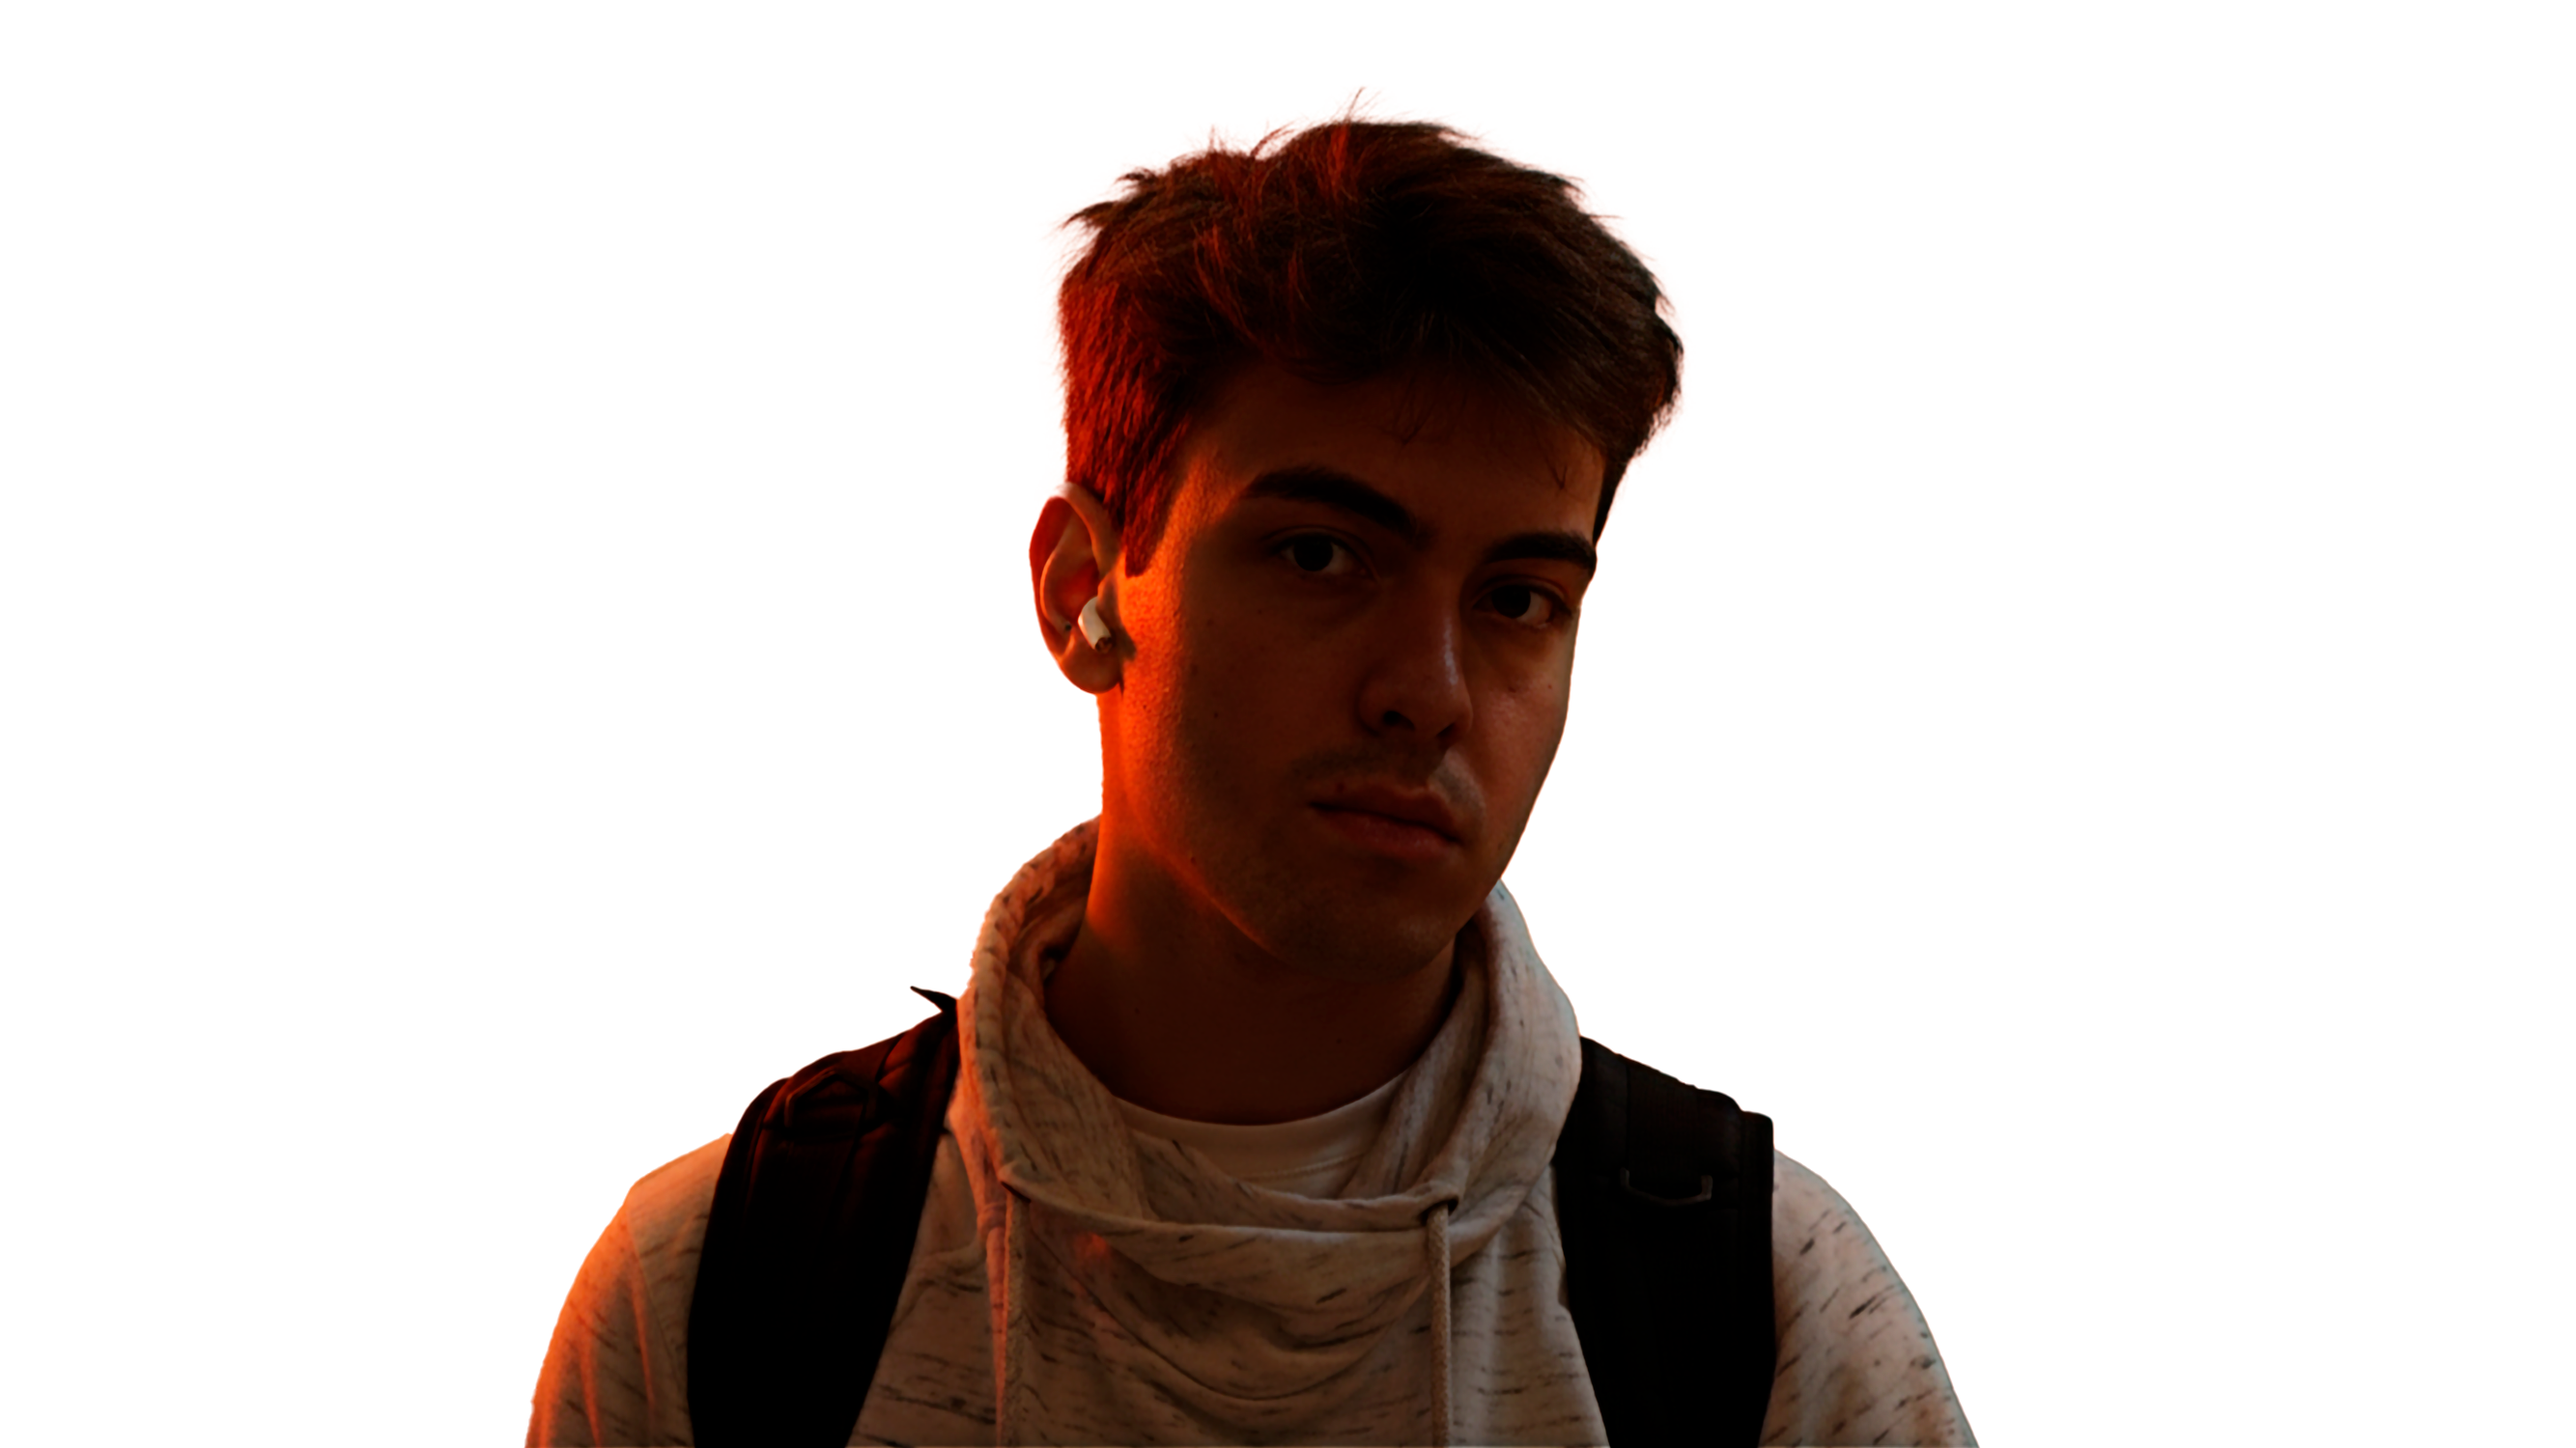
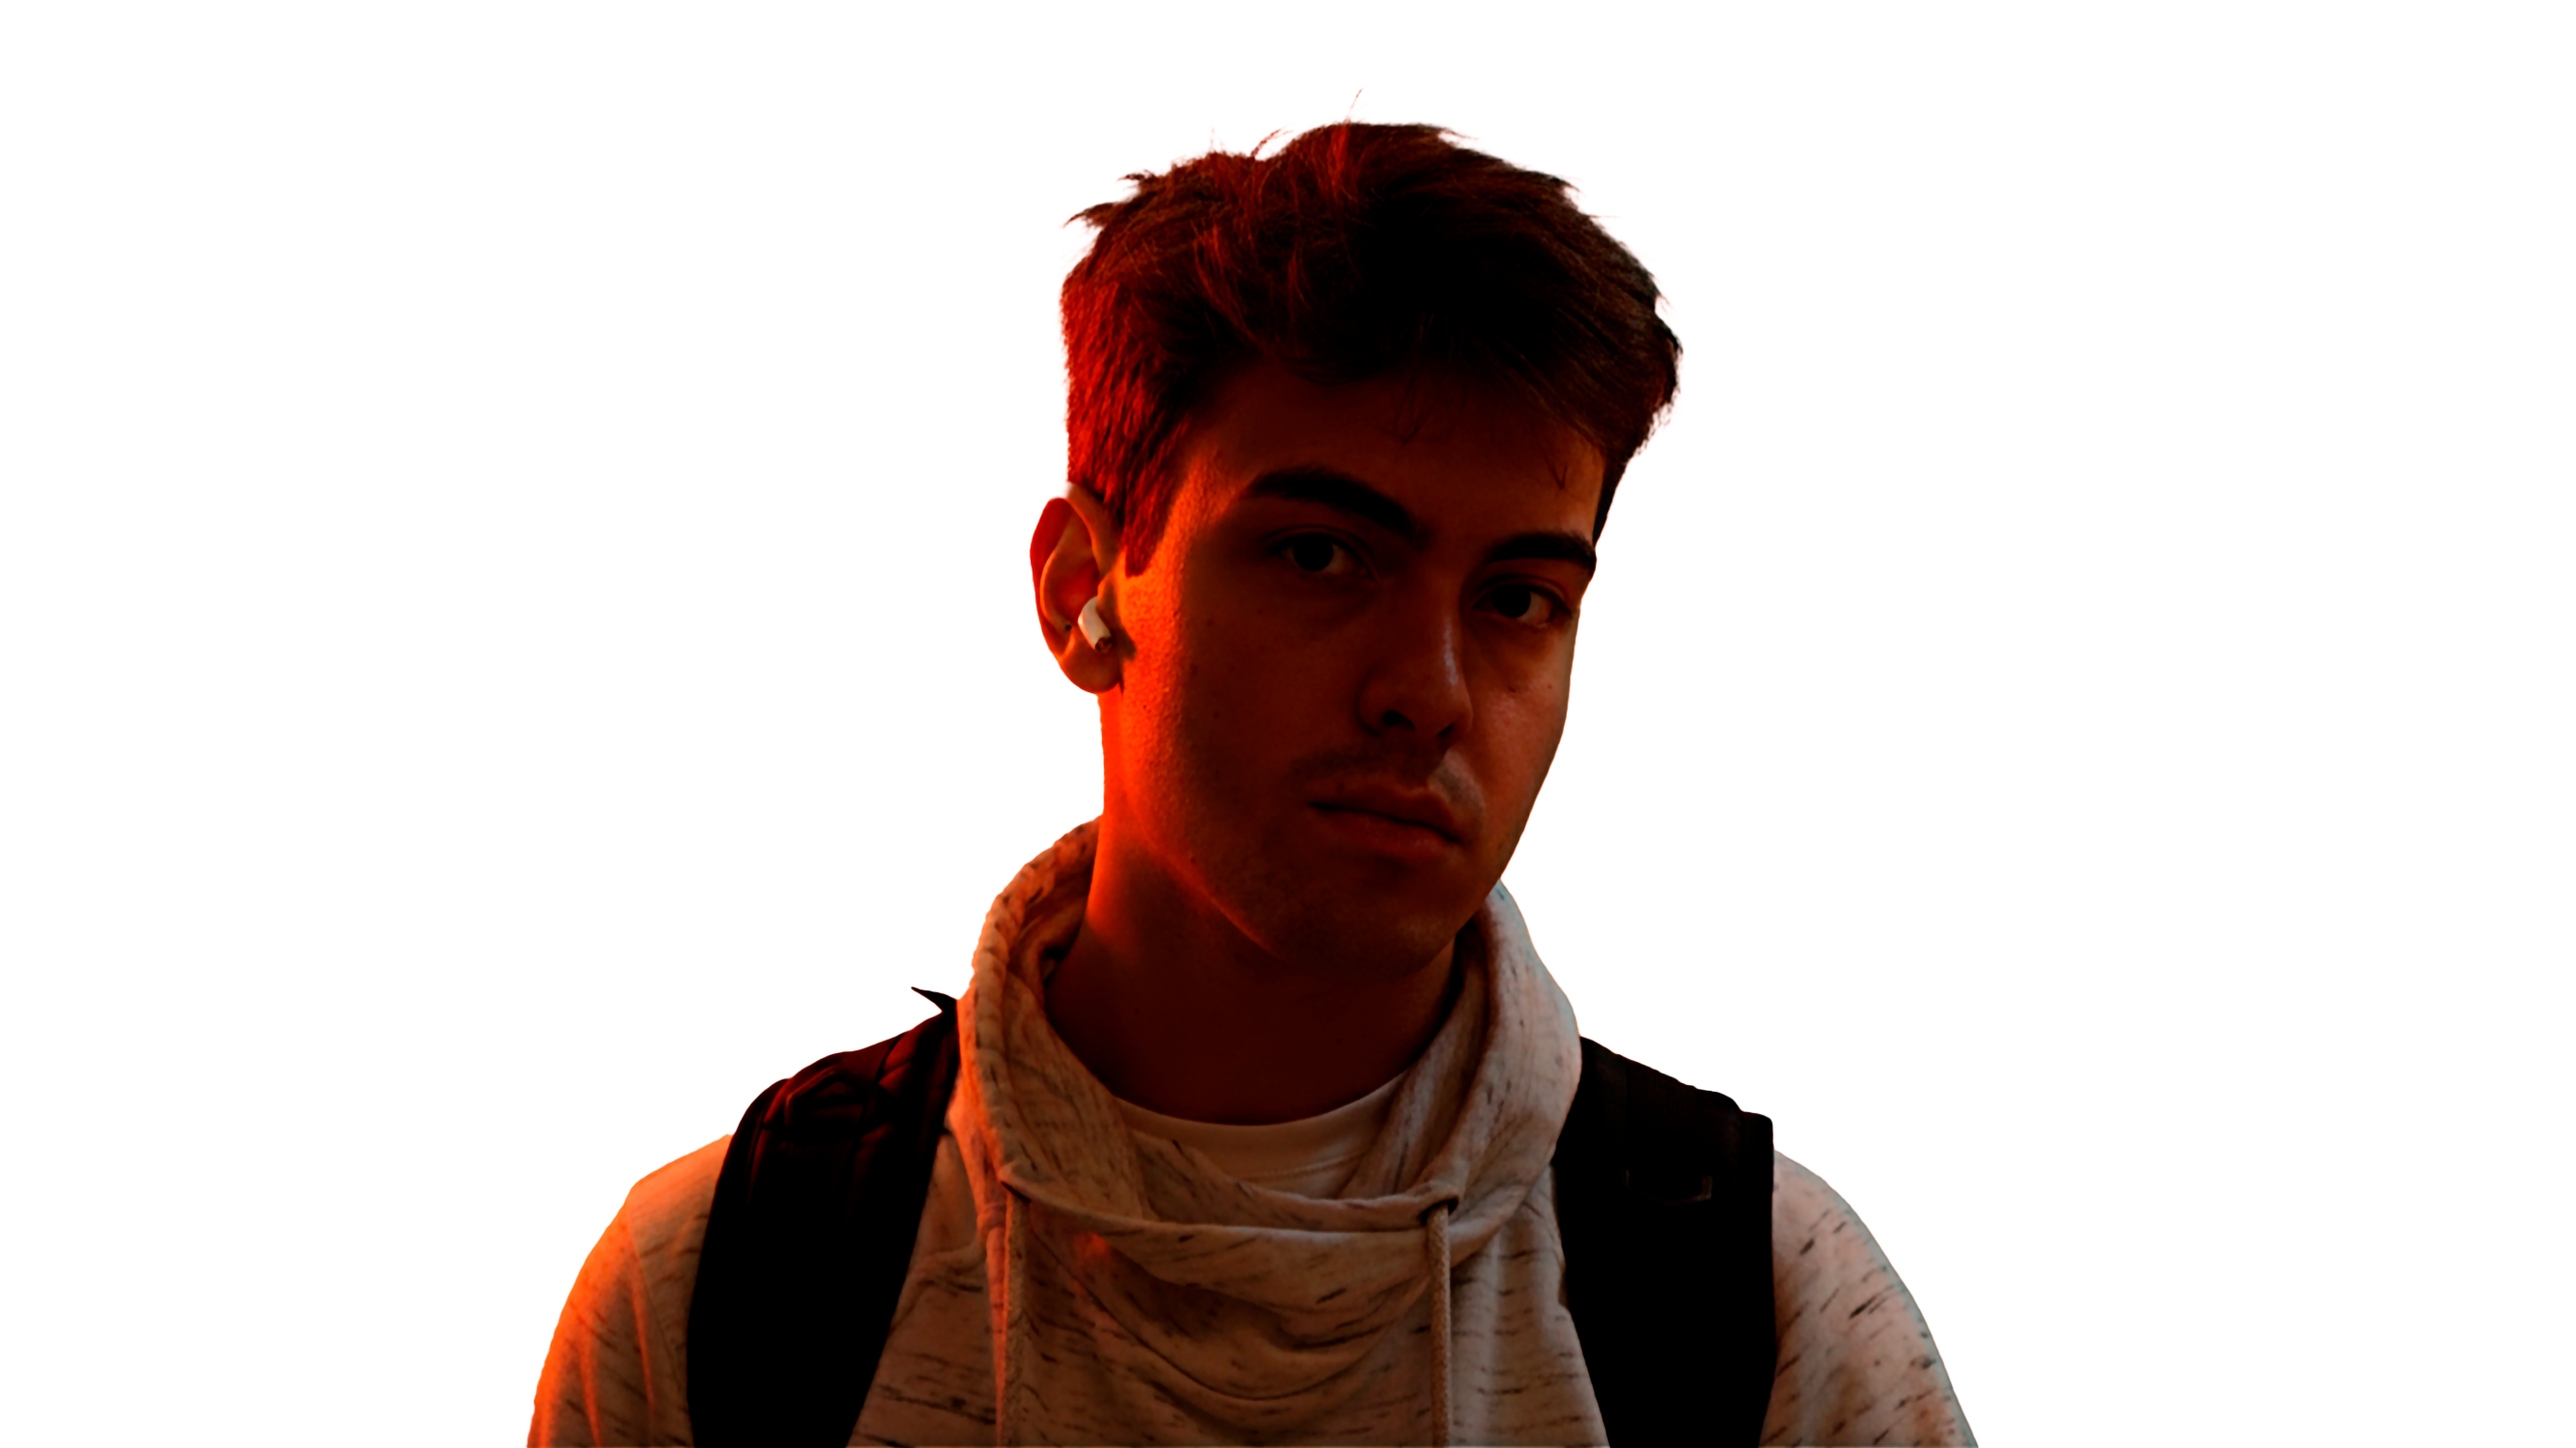
NoScrow feature

diff --git a/components/sections/Hero.tsx b/components/sections/Hero.tsx
@@ -4,8 +4,9 @@ import TerminalAnimation from "@/components/ui/TerminalAnimation";
 
 export default function Hero() {
     return (
-        <section id="hero" className="relative min-h-screen flex lg:items-center justify-end py-20">
-            <div className="absolute inset-0 z-0items-center mx-auto overflow-hidden">
+        <section id="hero" className="relative min-h-screen flex pt-20 flex-row  flex-wrap-reverse">
+
+            <div className="absolute inset-0 z-0 items-center mx-auto overflow-hidden">
                 <Image
                     src="/Hero/Nathan.png"
                     alt="Nathan Picture"
@@ -13,17 +14,25 @@ export default function Hero() {
                     quality={100}
                     priority
                     unoptimized
-                    className="object-cover grayscale-0 hue-rotate-0 brightness-110"
+                    className="object-cover grayscale-0 hue-rotate-0 brightness-120"
                 />
             </div>
 
-            <div className="text-white font-sk-modernist font-bold text-[16vw] md:text-[7rem] leading-[1em] uppercase text-end z-10 p-8 md:p-16 lg:p-24 mix-blend-difference 2xl:max-w-[50vw]">
-                <h1>Welcome to my world.</h1>
+
+            <div className="flex-1 flex items-end select-none" >
+                <div className={`relative bottom-0 z-10 w-full `}>
+                    <TerminalAnimation />
+                </div>
             </div>
 
-            <div className={`absolute bottom-0 z-10 w-full `}>
-                <TerminalAnimation />
+
+            <div className="flex-1 flex items-center select-none" >
+                <div className="relative text-blue-300 font-sk-modernist font-bold text-[13vw] md:text-[7rem] 
+                leading-[1em] uppercase text-end z-10 p-8 mix-blend-difference hue-rotate-150">
+                    <h1>Computer Engenering</h1>
+                </div>
             </div>
+
 
         </section>
     );

diff --git a/components/ui/TerminalAnimation.tsx b/components/ui/TerminalAnimation.tsx
@@ -33,14 +33,14 @@ export default function TerminalAnimation() {
         if (currentText.length < fullText.length) {
             const timeout = setTimeout(() => {
                 setCurrentText(fullText.slice(0, currentText.length + 1));
-            }, 80); 
+            }, 100); 
             return () => clearTimeout(timeout);
         } else {
 
             const timeout = setTimeout(() => {
                 setCurrentText("");
                 setCurrentLine(currentLine + 1);
-            }, 100);
+            }, 200);
             return () => clearTimeout(timeout);
         }
     }, [currentText, currentLine]);
@@ -53,7 +53,7 @@ export default function TerminalAnimation() {
     }, []);
 
     return (
-        <div className="font-sk-modernist tracking-[.12em] text-md md:text-[1.2rem] m-10 backdrop-blur-md border border-white/20 rounded-2xl p-6 lg:w-[40vw] min-w-fit">
+        <div className="font-sk-modernist tracking-[.12em] text-[4vw] sm:text-[1.2rem] m-10 backdrop-blur-md border border-white/20 rounded-2xl p-6 lg:w-[40vw] min-w-fit">
 
             <div className="space-y-3">
                 {commands.slice(0, currentLine).map((cmd, idx) => (

diff --git a/components/ui/SmoothScroll.tsx b/components/ui/SmoothScroll.tsx
@@ -1,0 +1,38 @@
+"use client";
+
+import { useEffect } from "react";
+
+export default function SmoothScroll() {
+  useEffect(() => {
+    let lenis: any;
+    let rafId: number;
+
+    async function init() {
+      const module = await import("@studio-freight/lenis").catch(() => null);
+      const Lenis = module ? module.default : null;
+      if (!Lenis) return;
+
+      lenis = new Lenis({
+        duration: 1.2,
+        easing: (t: number) => Math.min(1, 1.001 - Math.pow(2, -10 * t)),
+        smooth: true,
+      });
+
+      function raf(time: number) {
+        lenis.raf(time);
+        rafId = requestAnimationFrame(raf);
+      }
+
+      rafId = requestAnimationFrame(raf);
+    }
+
+    init();
+
+    return () => {
+      if (rafId) cancelAnimationFrame(rafId);
+      if (lenis && lenis.destroy) lenis.destroy();
+    };
+  }, []);
+
+  return null;
+}

diff --git a/app/layout.tsx b/app/layout.tsx
@@ -2,6 +2,7 @@ import type { Metadata } from "next";
 import { Geist, Geist_Mono, Anton } from "next/font/google";
 import localFont from "next/font/local";
 import "./globals.css";
+import SmoothScroll from "@/components/ui/SmoothScroll";
 
 const geistSans = Geist({
   variable: "--font-geist-sans",
@@ -39,6 +40,7 @@ export default function RootLayout({
       <body
         className={`${geistSans.variable} ${geistMono.variable} ${anton.variable} ${skModernist.variable} antialiased`}
       >
+        <SmoothScroll />
         {children}
       </body>
     </html>

diff --git a/components/ui/Navbar.tsx b/components/ui/Navbar.tsx
@@ -29,7 +29,7 @@ export default function Navbar() {
 
     return (
         <nav className="fixed top-0 left-0 right-0 z-50 px-8 py-4">
-            <div className="flex items-center justify-between max-w-screen-2xl mx-auto">
+            <div className="flex items-center justify-between mx-auto">
                 <button 
                     className="flex items-center justify-center w-10 h-10 rounded-full hover:bg-white/10 transition-colors"
                     aria-label="Menu"

diff --git a/app/globals.css b/app/globals.css
@@ -26,3 +26,9 @@ body {
   color: var(--foreground);
   font-family: Arial, Helvetica, sans-serif;
 }
+
+html::-webkit-scrollbar { display: none; }
+html { -ms-overflow-style: none; scrollbar-width: none; }
+
+.fullpage-wrapper { height: 100vh; overflow: hidden; }
+.fullpage-content { height: 100%; overflow: auto; }
